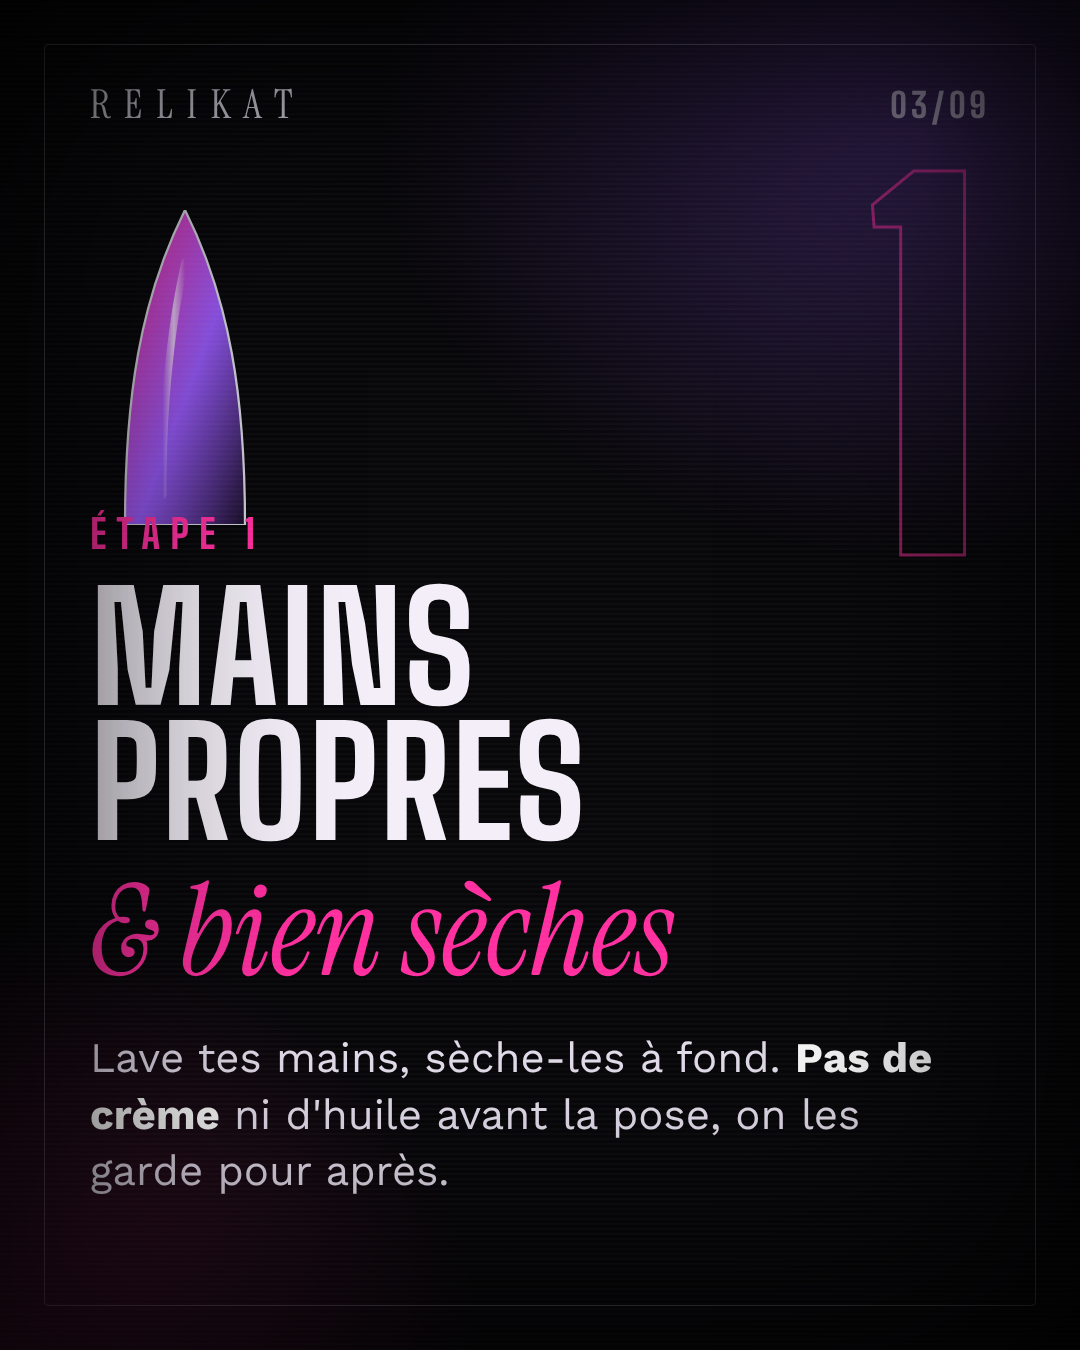
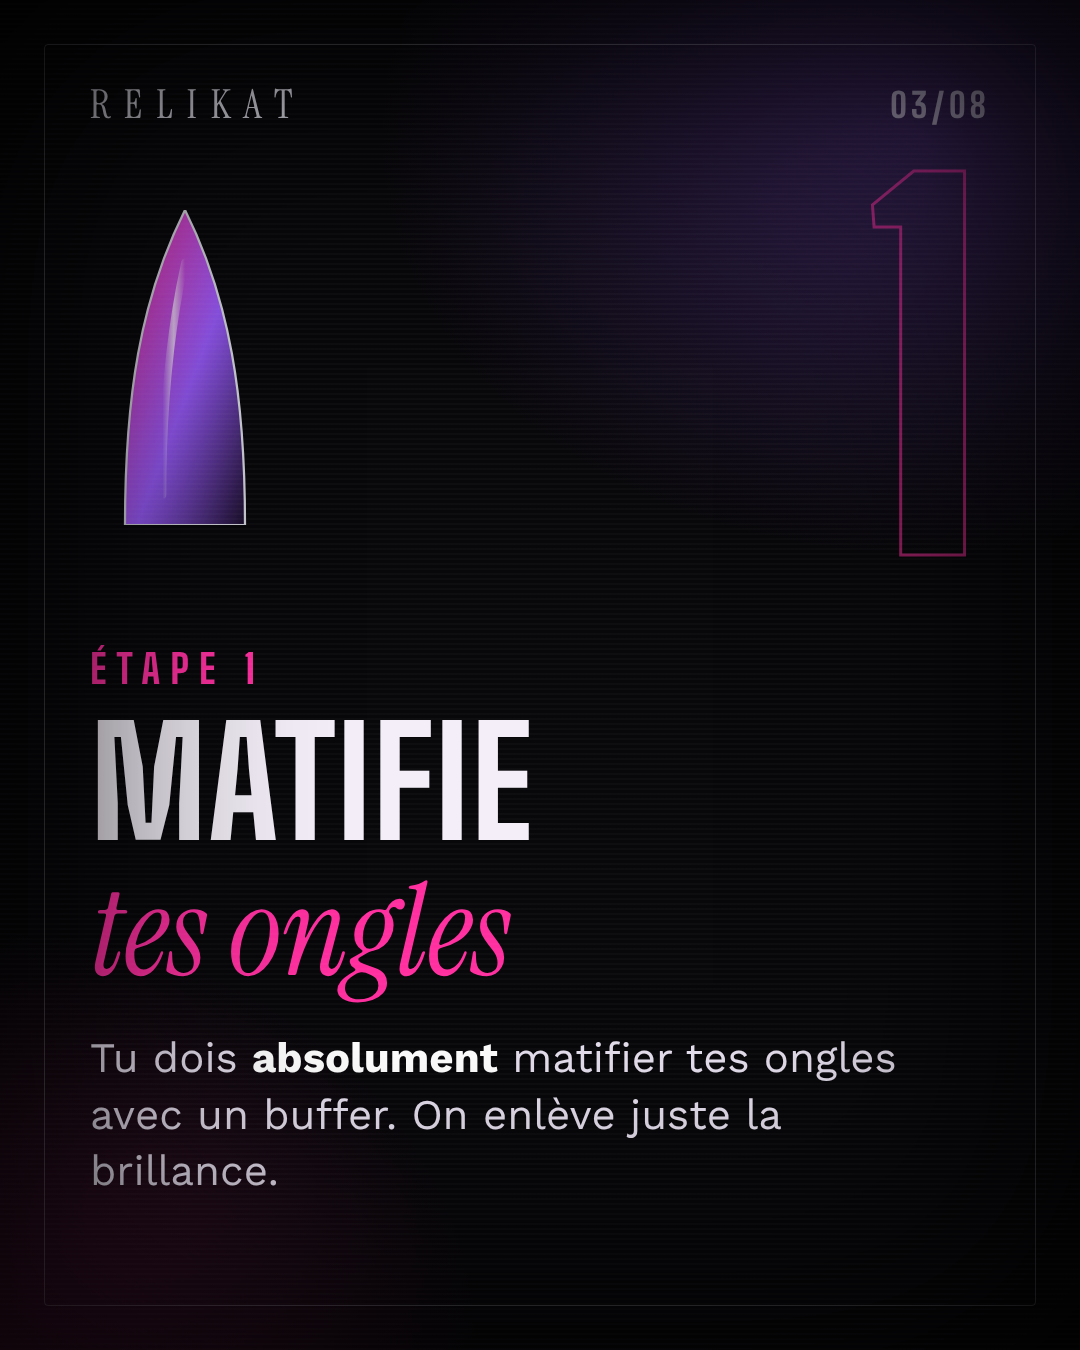
Carrousel RELIKAT : étapes du Reel (5 étapes, gel pad)
Claude-Session: https://claude.ai/code/session_0146tJhNhDf1eUKpWvX2gybg

diff --git a/relikat-carrousel-prepa/carrousel.html b/relikat-carrousel-prepa/carrousel.html
@@ -46,61 +46,47 @@ h1 em{font-family:ISerif;font-weight:400;font-style:normal;text-transform:none;c
 </defs></svg>
 
 <!-- 1 COVER -->
-<section class="s" id="s1"><div class="frame"></div><div class="brand">RELIKAT</div><div class="pg">01/09</div>
+<section class="s" id="s1"><div class="frame"></div><div class="brand">RELIKAT</div><div class="pg">01/08</div>
  <span class="star" style="top:230px;left:120px;font-size:60px">✦</span><span class="star" style="top:330px;left:220px;font-size:30px">✦</span>
- <svg class="nail" viewBox="0 0 440 420" style="width:520px;right:40px;top:150px">
+ <svg class="nail" viewBox="0 0 440 420" style="width:400px;right:90px;top:130px">
   <use href="#stil" x="0" y="40" width="130" height="380"/><use href="#stil" x="150" y="0" width="130" height="420"/><use href="#stil" x="300" y="50" width="130" height="370"/></svg>
- <div class="content"><div class="kicker">Avant de poser tes press on</div>
- <h1>Prépare<br>tes ongles<br><em>comme une pro</em></h1>
- <div class="txt">6 étapes pour qu'ils tiennent <b>vraiment</b>.</div></div>
+ <div class="content"><div class="kicker">Tes press on tiennent 2 jours ?</div>
+ <h1>Au lieu de<br>2 semaines…<br><em>ce post est pour toi</em></h1>
+ <div class="txt">5 étapes de prépa pour qu’ils tiennent <b>vraiment</b>.</div></div>
  <div class="swipe">SWIPE →</div></section>
 
 <!-- 2 POURQUOI -->
-<section class="s" id="s2"><div class="frame"></div><div class="brand">RELIKAT</div><div class="pg">02/09</div>
+<section class="s" id="s2"><div class="frame"></div><div class="brand">RELIKAT</div><div class="pg">02/08</div>
  <span class="star" style="top:250px;right:150px;font-size:80px">✦</span>
  <div class="content" style="bottom:auto;top:300px"><div class="kicker">La vérité</div>
- <h1>Un press on<br>qui saute,<br><em>c'est rarement la colle.</em></h1>
- <div class="txt">C'est presque toujours <b>la prépa</b> : un ongle gras, humide ou brillant, et l'adhésif ne peut pas accrocher.</div>
- <div class="hand">Alors on prend 5 minutes →</div></div></section>
-
-<!-- STEPS -->
-<section class="s" id="s3"><div class="frame"></div><div class="brand">RELIKAT</div><div class="pg">03/09</div><div class="num">1</div>
+ <h1>Un press on<br>qui saute,<br><em>c’est rarement la colle.</em></h1>
+ <div class="txt">C’est presque toujours <b>la prépa</b> : un ongle brillant ou gras, et ça ne peut pas accrocher.</div>
+ <div class="hand">Alors on prépare →</div></div></section>
+<section class="s" id="s3"><div class="frame"></div><div class="brand">RELIKAT</div><div class="pg">03/08</div><div class="num">1</div>
  <svg class="nail" viewBox="0 0 200 420" style="width:150px;left:110px;top:210px"><use href="#stil"/></svg>
- <div class="content"><div class="kicker">Étape 1</div><h1>Mains propres<br><em>&amp; bien sèches</em></h1>
- <div class="txt">Lave tes mains, sèche-les à fond. <b>Pas de crème</b> ni d'huile avant la pose, on les garde pour après.</div></div></section>
-
-<section class="s" id="s4"><div class="frame"></div><div class="brand">RELIKAT</div><div class="pg">04/09</div><div class="num">2</div>
+ <div class="content"><div class="kicker">Étape 1</div><h1>Matifie<br><em>tes ongles</em></h1>
+ <div class="txt">Tu dois <b>absolument</b> matifier tes ongles avec un buffer. On enlève juste la brillance.</div></div></section>
+<section class="s" id="s4"><div class="frame"></div><div class="brand">RELIKAT</div><div class="pg">04/08</div><div class="num">2</div>
  <svg class="nail" viewBox="0 0 200 420" style="width:150px;left:110px;top:210px"><use href="#stil"/></svg>
- <div class="content"><div class="kicker">Étape 2</div><h1>Repousse<br><em>tes cuticules</em></h1>
- <div class="txt">Avec un bâtonnet, tout en douceur. La capsule doit se poser <b>sur l'ongle, jamais sur la peau</b>, sinon elle se soulève.</div></div></section>
-
-<section class="s" id="s5"><div class="frame"></div><div class="brand">RELIKAT</div><div class="pg">05/09</div><div class="num">3</div>
+ <div class="content"><div class="kicker">Étape 2</div><h1>Repousse<br><em>les cuticules</em></h1>
+ <div class="txt">Avec un bâtonnet, tu viens retirer <b>la peau qui est collée sur ton ongle</b>.</div></div></section>
+<section class="s" id="s5"><div class="frame"></div><div class="brand">RELIKAT</div><div class="pg">05/08</div><div class="num">3</div>
  <svg class="nail" viewBox="0 0 200 420" style="width:150px;left:110px;top:210px"><use href="#stil"/></svg>
- <div class="content"><div class="kicker">Étape 3</div><h1>Lime<br><em>court &amp; net</em></h1>
- <div class="txt">Raccourcis ton ongle naturel et lisse le bord. Il ne doit <b>pas dépasser</b> sous ta capsule.</div></div></section>
-
-<section class="s" id="s6"><div class="frame"></div><div class="brand">RELIKAT</div><div class="pg">06/09</div><div class="num">4</div>
+ <div class="content"><div class="kicker">Étape 3</div><h1>Nettoie<br><em>la plaque de l’ongle</em></h1>
+ <div class="txt">Tu viens prendre une <b>lingette d’alcool</b> et tu la passes sur chaque ongle.</div></div></section>
+<section class="s" id="s6"><div class="frame"></div><div class="brand">RELIKAT</div><div class="pg">06/08</div><div class="num">4</div>
  <svg class="nail" viewBox="0 0 200 420" style="width:150px;left:110px;top:210px"><use href="#stil"/></svg>
- <div class="content"><div class="kicker">Étape 4</div><h1>Mate<br><em>la surface</em></h1>
- <div class="txt">Un petit coup de buffer pour enlever la brillance. <b>Léger</b> : on ne ponce pas l'ongle, on le rend juste mat.</div>
- <div class="hand">le buffer cœur est dans ton kit ♡</div></div></section>
-
-<section class="s" id="s7"><div class="frame"></div><div class="brand">RELIKAT</div><div class="pg">07/09</div><div class="num">5</div>
+ <div class="content"><div class="kicker">Étape 4 · Bonus</div><h1>Lingette<br><em>sous le press on</em></h1>
+ <div class="txt">Tu viens passer aussi un petit coup de lingette <b>sous la capsule</b>, pour qu’elle soit propre des deux côtés.</div><div class="hand">le petit détail qui change tout ♡</div></div></section>
+<section class="s" id="s7"><div class="frame"></div><div class="brand">RELIKAT</div><div class="pg">07/08</div><div class="num">5</div>
  <svg class="nail" viewBox="0 0 200 420" style="width:150px;left:110px;top:210px"><use href="#stil"/></svg>
- <div class="content"><div class="kicker">Étape 5</div><h1>Dégraisse<br><em>chaque ongle</em></h1>
- <div class="txt">Passe la lingette de préparation sur chaque ongle. Ensuite, <b>on ne touche plus</b> : le gras de tes doigts suffit à tout gâcher.</div>
- <div class="hand">aussi dans ton kit ♡</div></div></section>
-
-<section class="s" id="s8"><div class="frame"></div><div class="brand">RELIKAT</div><div class="pg">08/09</div><div class="num">6</div>
- <svg class="nail" viewBox="0 0 200 420" style="width:150px;left:110px;top:210px"><use href="#stil"/></svg>
- <div class="content"><div class="kicker">Étape 6</div><h1>Trouve<br><em>tes tailles</em></h1>
- <div class="txt">Avant de coller, essaie chaque capsule et aligne-les dans l'ordre. Entre deux tailles ? <b>Prends la plus petite</b> et lime-la si besoin.</div></div></section>
-
-<!-- 9 CTA -->
-<section class="s" id="s9"><div class="frame"></div><div class="brand">RELIKAT</div><div class="pg">09/09</div>
+ <div class="content"><div class="kicker">Étape 5</div><h1>Gel pad<br><em>à ta taille</em></h1>
+ <div class="txt">Tu prends ton gel pad et tu choisis <b>la bonne taille pour ton ongle</b>. Ensuite, place à la pose.</div></div></section>
+<!-- 8 CTA -->
+<section class="s" id="s8"><div class="frame"></div><div class="brand">RELIKAT</div><div class="pg">08/08</div>
  <span class="star" style="top:230px;left:130px;font-size:70px">✦</span><span class="star" style="top:340px;right:180px;font-size:40px">✦</span>
- <div class="content" style="bottom:auto;top:330px"><div class="kicker">Récap</div>
+ <div class="content" style="bottom:auto;top:340px"><div class="kicker">Récap</div>
  <h1>Prête<br><em>pour la pose.</em></h1>
- <div class="list"><div>Mains propres &amp; sèches</div><div>Cuticules repoussées</div><div>Ongle limé court</div><div>Surface matée</div><div>Ongle dégraissé</div><div>Tailles choisies</div></div>
+ <div class="list"><div>Ongles matifiés au buffer</div><div>Cuticules repoussées</div><div>Plaque nettoyée à l’alcool</div><div>Lingette sous le press on</div><div>Gel pad à la bonne taille</div></div>
  <div class="tag">Enregistre pour ta prochaine pose</div></div></section>
 </body></html>
